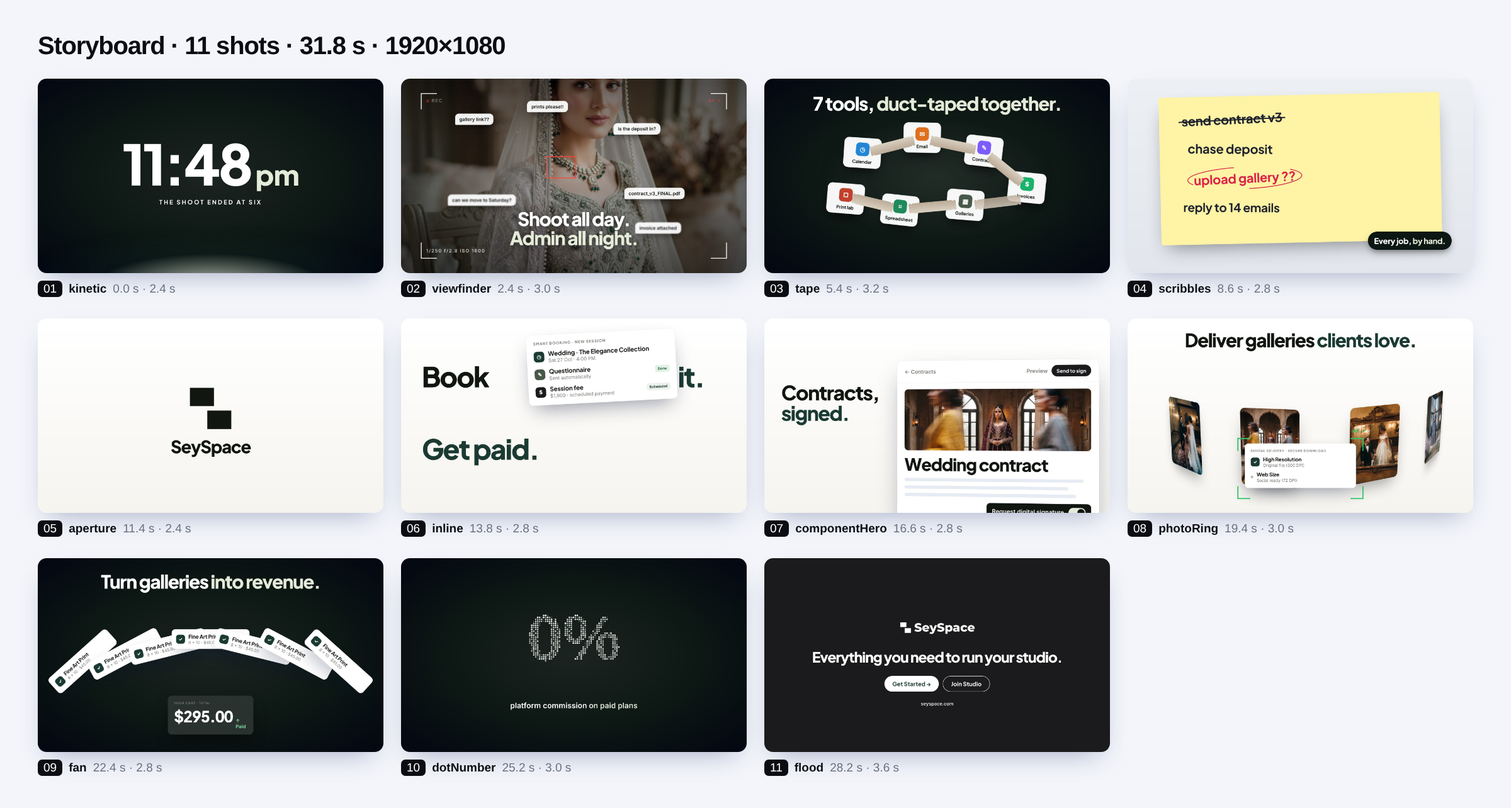
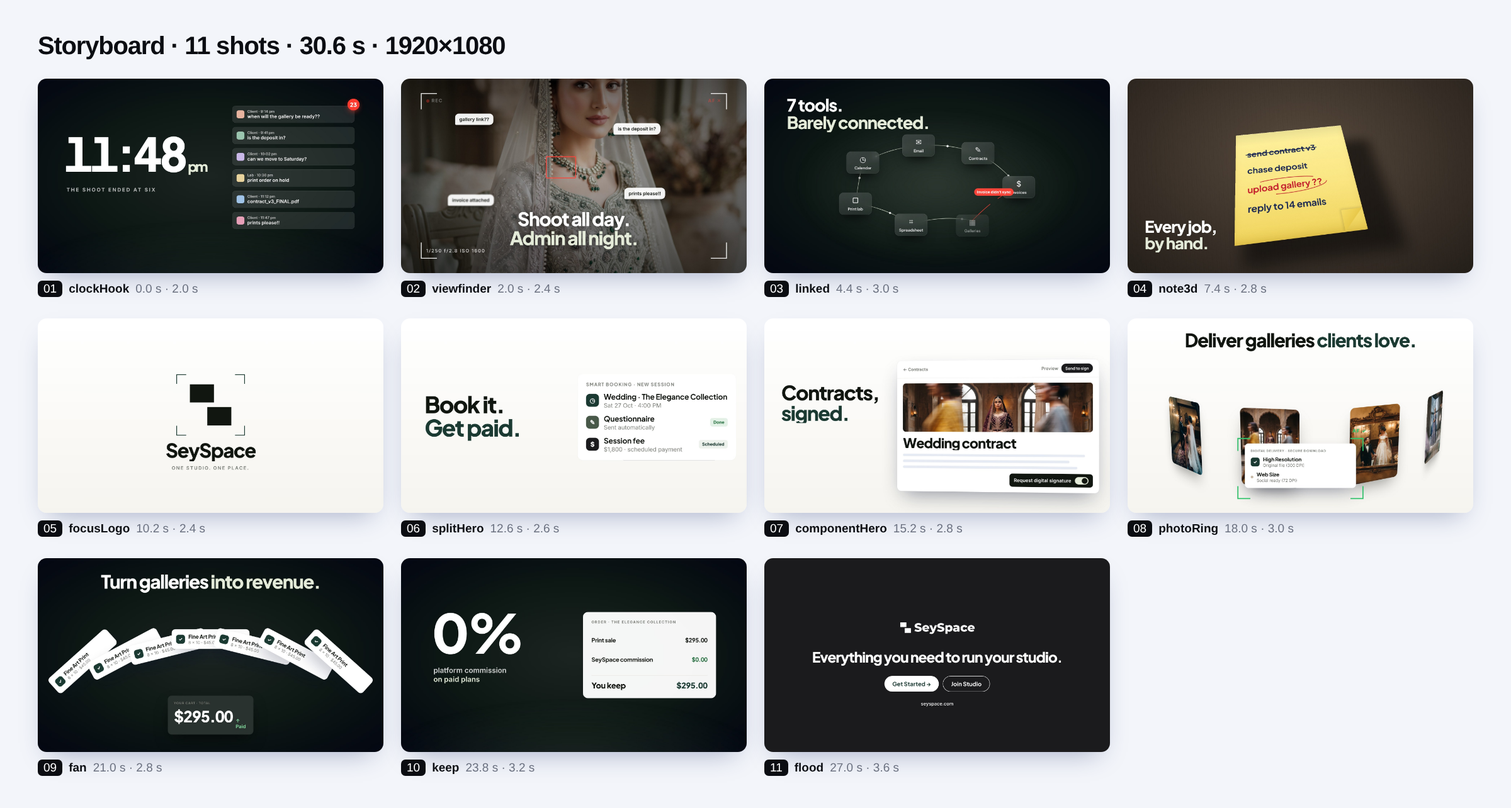
SeySpace v2: apply review comments, faster hook, clean transitions
New moves clockHook, linked, note3d, focusLogo, splitHero, keep; maskLines slide-up type;
dissolve / mask / iris / slide transitions replace the motion-blur whips.

Claude-Session: https://claude.ai/code/session_01Bj9t4eAUM8tCdGzL6hCUT3

diff --git a/films/seyspace_isp/shots_creative.js b/films/seyspace_isp/shots_creative.js
@@ -202,13 +202,15 @@ shot('componentHero', { hero: 2.8, len: 3.6, bg: 'light', tin: 'zoom', tout: 'wh
     s.comp = renderComponent(s.wrap, sc.component, { x: lv(740, 60) / z, y: lv(240, 560) / z, w: lv(1080, 960) / z });
     s.comp.el.style.zoom = z; s.comp.el.style.transformOrigin = '50% 100%';
   },
-  update(t, s, c) {
+  update(t, s, c, sc) {
     S(c, { s: L(1, 1.04, t / 3.6) });
     typeP(s.h, P(t, .1, .7), t, false);
     const r = eo(P(t, .2, 1.0)), ry = tt => L(500, 0, eo(P(tt, .2, 1.0)));
     s.comp.el.style.transform = `translateY(${ry(t).toFixed(1)}px) rotateX(${L(28, 0, r).toFixed(2)}deg) rotateY(${L(lv(-14, 0), lv(-4, 0), r).toFixed(2)}deg)`;
     s.comp.el.style.opacity = C(P(t, .2, .35) * 3).toFixed(3);
     revealParts(s.comp, t, .6, .08); animateComponent(s.comp, t, .6);
+    if (sc.titleSlide && s.comp.el._title) { typeP(s.comp.el._title, 1, 99, false); const tt = s.comp.el.querySelector('.kedtitle'); tt.style.overflow = 'hidden'; const k = eo(P(t, .8, 1.35)); s.comp.el._title.el.style.transform = `translateY(${((1 - k) * 110).toFixed(1)}%)`; s.comp.el._title.el.style.display = 'block'; }
+    if (sc.slideHead) { s.h.el.style.overflow = 'hidden'; typeP(s.h, 1, 99, false); const k = eo(P(t, .05, .6)); s.h.el.style.clipPath = `inset(0 0 ${((1 - k) * 100).toFixed(1)}% 0)`; S(s.h.el, { y: (1 - k) * 60 }); }
   } });
 
 /* ===== podium: ranked entries (a leaderboard) become 3D podium blocks with medals and count-ups ===== */
@@ -470,4 +472,163 @@ shot('photoRing', { hero: 2.4, len: 3.2, bg: 'light', tin: 'zoom', tout: 'whip',
     if (s.comp) { const q = P(t, .9, 1.3); S(s.comp.el, { y: (1 - eo(q)) * 120, o: C(q * 3), s: L(.92, 1, eo(q)) }); revealParts(s.comp, t, 1.0); animateComponent(s.comp, t, 1.0); }
     const lk = eo(P(t, 1.5, 1.8)); s.af.forEach(e => { const dx = e._k[1] === 'l' ? -1 : 1, dy = e._k[0] === 't' ? -1 : 1; S(e, { x: dx * (1 - lk) * 90, y: dy * (1 - lk) * 70, o: C(P(t, 1.45, 1.6) * 3) }); });
     S(s.afl, { o: P(t, 1.75, 1.9), s: L(.6, 1, bo(P(t, 1.75, 2.0))) });
+  } });
+
+/* ================= SeySpace v2 moves (review fixes) ================= */
+/* lines that slide up out of a mask, one after another (premium type reveal) */
+function maskLines(parent, cls, style, lines, accent = [1], accCol = 'var(--acc)') {
+  const e = D(parent, cls, Object.assign({ whiteSpace: 'nowrap' }, style));
+  const spans = lines.map((l, i) => { const w = D(e, '', { overflow: 'hidden', paddingBottom: '.08em', marginBottom: '-.08em' }); const s = D(w, '', { display: 'block', color: accent.includes(i) ? accCol : '' }, kesc(l)); return s; });
+  return { el: e, spans };
+}
+function maskP(m, t, t0, gap = .12, dur = .55) { m.spans.forEach((s, i) => { const k = eo(P(t, t0 + i * gap, t0 + i * gap + dur)); s.style.transform = `translateY(${((1 - k) * 105).toFixed(1)}%)`; }); }
+
+/* ===== clockHook: the evening races past; notifications pile up ===== */
+shot('clockHook', { hero: 1.7, len: 2.4, bg: 'dark',
+  sfx: [],
+  build(c, s, sc) {
+    s.glow = D(c, 'abs', { left: -200, width: W + 400, bottom: -520, height: 820, borderRadius: '50%', background: 'radial-gradient(closest-side,rgba(var(--acc2RGB),.75),transparent)', filter: 'blur(20px)' });
+    s.clock = D(c, 'abs head', { left: 150, top: 280, fontSize: '260px', color: '#fff', whiteSpace: 'nowrap' }, '<span class="num" style="font-variant-numeric:tabular-nums">6:00</span><span style="font-size:.3em;color:var(--hi);margin-left:.15em">pm</span>');
+    s.time = s.clock.firstChild; s.pm = s.clock.lastChild;
+    s.lab = D(c, 'abs', { left: 160, top: 600, font: '700 28px var(--font-body)', color: 'rgba(255,255,255,.7)', letterSpacing: '.22em' }, kesc(sc.label || 'THE SHOOT ENDED AT SIX'));
+    const N = sc.notes || [];
+    s.notes = N.map((n, i) => D(c, 'abs', { left: 1080, top: 150 + i * 118, width: 680, padding: '20px 24px', borderRadius: '20px', background: 'rgba(255,255,255,.1)', backdropFilter: 'blur(14px)', boxShadow: 'inset 0 0 0 1px rgba(255,255,255,.14)', color: '#fff', display: 'flex', gap: '16px', alignItems: 'center' },
+      `<span style="width:44px;height:44px;border-radius:12px;background:${['#E8B4A0', '#9CC5B0', '#C9B8E8', '#E8D49C', '#A0C4E8', '#E8A0B8'][i % 6]};flex:none"></span><div style="min-width:0"><div style="font:700 20px var(--font-body);opacity:.65">${kesc(n[0])}</div><div style="font:600 26px var(--font-body);white-space:nowrap;overflow:hidden;text-overflow:ellipsis">${kesc(n[1])}</div></div>`));
+    s.badge = D(c, 'abs', { left: 1720, top: 112, minWidth: '64px', height: '64px', padding: '0 14px', borderRadius: '32px', background: '#ff3b30', color: '#fff', font: '800 32px var(--font)', display: 'flex', alignItems: 'center', justifyContent: 'center', boxShadow: '0 10px 30px -6px rgba(255,59,48,.7)' }, '0');
+  },
+  update(t, s, c) {
+    S(c, { s: L(1.04, 1, eo(P(t, 0, 2.4))) });
+    const m = Math.round(L(18 * 60, 23 * 60 + 48, eo(P(t, 0, 1.0)))), h = Math.floor(m / 60) - 12, mm = m % 60;
+    s.time.textContent = `${h}:${String(mm).padStart(2, '0')}`;
+    S(s.clock, { o: C(t * 8) });
+    const lk = eo(P(t, .95, 1.35)); S(s.lab, { o: lk, y: (1 - lk) * 14 });
+    S(s.glow, { o: .55 + .25 * Math.sin(t * 3) });
+    let n = 0; s.notes.forEach((e, i) => { const a = .15 + i * .16, k = P(t, a, a + .3); if (k > 0) n++; S(e, { x: (1 - eo(k)) * 120, o: C(k * 3), s: L(.96, 1, eo(k)) }); });
+    s.badge.textContent = String(Math.min(23, Math.round(L(0, 23, eo(P(t, .15, 1.4))))));
+    const bq = P(t, .15, .35); S(s.badge, { s: L(.4, 1, bo(bq)) * (1 + .08 * Math.max(0, Math.sin(t * 14)) * (1 - P(t, 1.2, 1.4))), o: C(bq * 3) });
+  } });
+
+/* ===== linked: the cause as an object. Seven tools as glass tiles, joined by thin lit lines; one link fails ===== */
+shot('linked', { hero: 2.5, len: 3.2, bg: 'dark',
+  sfx: [],
+  build(c, s, sc) {
+    const tools = sc.tools || [], pos = [[560, 470], [860, 380], [1180, 420], [1400, 600], [1150, 780], [820, 800], [520, 690]];
+    s.glow = D(c, 'ctr', { left: CX, top: 600, width: 1500, height: 800, borderRadius: '50%', background: 'radial-gradient(closest-side,rgba(var(--acc2RGB),.38),transparent)', filter: 'blur(30px)' });
+    const links = sc.links || [];
+    s.svg = D(c, 'abs', { left: 0, top: 0, width: W, height: H }, `<svg width="${W}" height="${H}"><defs><linearGradient id="lkg" x1="0" x2="1"><stop offset="0" stop-color="#E4EBD8" stop-opacity=".15"/><stop offset=".5" stop-color="#E4EBD8" stop-opacity=".9"/><stop offset="1" stop-color="#E4EBD8" stop-opacity=".15"/></linearGradient></defs>${links.map(([a, b]) => `<path d="M${pos[a][0]} ${pos[a][1]} Q ${(pos[a][0] + pos[b][0]) / 2} ${(pos[a][1] + pos[b][1]) / 2 - 40} ${pos[b][0]} ${pos[b][1]}" fill="none" stroke="url(#lkg)" stroke-width="2.5" pathLength="1" stroke-dasharray="0 1"/>`).join('')}${links.map(() => '<circle r="6" fill="#fff" opacity="0"/>').join('')}</svg>`);
+    s.paths = [...s.svg.querySelectorAll('path')]; s.dots = [...s.svg.querySelectorAll('circle')]; s.fail = sc.fail;
+    s.tiles = tools.map((tl, i) => { const [x, y] = pos[i];
+      const e = D(c, 'ctr', { left: x, top: y, width: 176, padding: '22px 0 18px', borderRadius: '24px', background: 'linear-gradient(160deg,rgba(255,255,255,.16),rgba(255,255,255,.05))', backdropFilter: 'blur(16px)', boxShadow: 'inset 0 0 0 1px rgba(255,255,255,.18),0 30px 60px -24px rgba(0,0,0,.8)', textAlign: 'center', color: '#fff' },
+        `<div style="font:500 40px var(--font-body);line-height:1;margin-bottom:12px;opacity:.95">${kesc(tl[0])}</div><div style="font:600 21px var(--font);letter-spacing:-.01em;opacity:.85">${kesc(tl[1])}</div>`);
+      return { e, d: .05 + i * .06 }; });
+    s.h = maskLines(c, 'abs head', { left: 150, top: 110, fontSize: '92px', color: '#fff' }, sc.headline || [], [1], 'var(--hi)');
+    s.err = D(c, 'ctr', { left: 0, top: 0, padding: '8px 14px', borderRadius: '999px', background: '#ff453a', color: '#fff', font: '700 20px var(--font-body)', whiteSpace: 'nowrap' }, kesc(sc.error || 'Sync failed'));
+  },
+  measure(s) { const p = s.paths[s.fail]; if (!p) return; const pt = p.getPointAtLength(p.getTotalLength() / 2); s.ex = pt.x - 60; s.ey = pt.y - 95; },
+  update(t, s, c) {
+    S(c, { s: L(1, 1.04, t / 3.2) });
+    maskP(s.h, t, .05);
+    s.tiles.forEach((tl, i) => { const k = eo(P(t, tl.d, tl.d + .5)); const off = i === s.fail + 1 ? eio(P(t, 2.0, 2.8)) : 0; S(tl.e, { o: C(k * 2) * (1 - off * .6), s: L(.9, 1, k), y: Math.sin(t * 1.4 + i) * 4 + off * 30 }); });
+    s.paths.forEach((p, i) => { const k = eio(P(t, .45 + i * .1, .85 + i * .1)); const broke = i === s.fail && t > 1.9;
+      p.setAttribute('stroke-dasharray', broke ? '.42 .16 .42 1' : `${k.toFixed(3)} 1`); p.style.stroke = broke ? '#ff453a' : ''; p.style.opacity = broke ? (Math.floor(t * 12) % 2 ? .35 : 1) : 1; });
+    s.dots.forEach((d, i) => { const p = s.paths[i], ph = ((t * .9 + i * .23) % 1); if (t < 1.0 || (i === s.fail && t > 1.9)) { d.setAttribute('opacity', 0); return; }
+      const pt = p.getPointAtLength(p.getTotalLength() * ph); d.setAttribute('cx', pt.x); d.setAttribute('cy', pt.y); d.setAttribute('opacity', (.9 * Math.sin(ph * Math.PI)).toFixed(2)); });
+    if (s.ex != null) { const q = P(t, 2.0, 2.25); S(s.err, { x: s.ex, y: s.ey, s: L(.6, 1, bo(q)), o: C(q * 3) }); }
+  } });
+
+/* ===== note3d: a real sticky note on a desk, in perspective, writing itself ===== */
+shot('note3d', { hero: 2.4, len: 3.0, bg: '#2a2622',
+  sfx: [],
+  build(c, s, sc) {
+    s.desk = D(c, 'abs', { left: 0, top: 0, width: W, height: H, background: 'radial-gradient(ellipse at 50% 40%,#5a4c3e 0%,#3a3129 55%,#211c17 100%)' });
+    D(c, 'abs', { left: 0, top: 0, width: W, height: H, opacity: .22, background: 'repeating-linear-gradient(93deg,rgba(255,255,255,.05) 0 2px,transparent 2px 9px),repeating-linear-gradient(88deg,rgba(0,0,0,.25) 0 1px,transparent 1px 23px)' });
+    s.scene3 = D(c, 'abs', { left: 0, top: 0, width: W, height: H, perspective: '1600px', perspectiveOrigin: '50% 20%' });
+    s.shadow = D(s.scene3, 'abs', { left: 640, top: 250, width: 720, height: 640, background: 'rgba(0,0,0,.55)', filter: 'blur(36px)', transform: 'rotateX(46deg) rotateZ(-7deg) translateY(70px) translateX(30px)' });
+    s.note = D(s.scene3, 'abs', { left: 620, top: 160, width: 700, height: 700, transformOrigin: '50% 100%', borderRadius: '4px',
+      background: 'linear-gradient(180deg,#fff3a0 0%,#fbe783 58%,#f2d65e 100%)', boxShadow: 'inset 0 -40px 60px -30px rgba(160,120,0,.35),inset 0 1px 0 rgba(255,255,255,.6)' });
+    D(s.note, 'abs', { left: 0, top: 0, width: '100%', height: 90, background: 'linear-gradient(180deg,rgba(0,0,0,.08),transparent)' });   // adhesive strip
+    D(s.note, 'abs', { left: 0, top: 0, width: '100%', height: '100%', opacity: .35, mixBlendMode: 'multiply', background: 'repeating-radial-gradient(circle at 30% 20%,rgba(120,90,0,.08) 0 1px,transparent 1px 3px)' });   // paper grain
+    D(s.note, 'abs', { right: 0, bottom: 0, width: 120, height: 120, background: 'linear-gradient(135deg,#f6dd6a 0%,#e9c94a 48%,rgba(0,0,0,0) 50%)', boxShadow: '-6px -6px 14px rgba(0,0,0,.12)', borderTopLeftRadius: '6px' });   // curled corner
+    s.items = (sc.items || []).map((it, i) => { const e = D(s.note, 'abs', { left: 70, top: 120 + i * 120, font: `600 ${it.size || 54}px var(--font)`, color: it.red ? '#c8202f' : '#1c2a55', letterSpacing: '-.01em', transform: `rotate(${i % 2 ? .8 : -.8}deg)`, whiteSpace: 'nowrap' });
+      const T = typed(e, '', {}, [{ t: it.t }], false); let line = null, ring = null;
+      if (it.strike) line = D(e, 'abs', { left: '-2%', top: '50%', width: '104%', height: '5px', borderRadius: '3px', background: '#1c2a55', transformOrigin: '0 50%' });
+      if (it.circle) ring = D(e, 'abs', { left: '-6%', top: '-22%', width: '112%', height: '144%' }, `<svg width="100%" height="100%" viewBox="0 0 100 100" preserveAspectRatio="none" style="overflow:visible"><ellipse cx="50" cy="50" rx="50" ry="50" fill="none" stroke="#c8202f" stroke-width="3.5" vector-effect="non-scaling-stroke" pathLength="1" stroke-dasharray="0 1"/></svg>`).querySelector('ellipse');
+      return { T, line, ring, d: .3 + i * .38 }; });
+    const cap = sc.caption || ['', ''];
+    s.cap = maskLines(c, 'abs head', { left: 150, top: 760, fontSize: '84px', color: '#fff' }, cap, [1], 'var(--hi)');
+  },
+  update(t, s, c) {
+    const k = eo(P(t, 0, .8));
+    s.note.style.transform = `rotateX(${L(58, 40, k).toFixed(2)}deg) rotateZ(${L(-10, -7, k).toFixed(2)}deg) translateY(${L(80, 0, k).toFixed(1)}px)`;
+    s.note.style.opacity = C(t * 5).toFixed(3); s.shadow.style.opacity = C(t * 5).toFixed(3);
+    S(c, { s: L(1.0, 1.07, eio(P(t, 0, 3))) });
+    s.items.forEach(it => { typeP(it.T, P(t, it.d, it.d + .35), t, false); if (it.line) it.line.style.transform = `scaleX(${eio(P(t, it.d + .38, it.d + .58)).toFixed(3)})`; if (it.ring) it.ring.setAttribute('stroke-dasharray', `${eio(P(t, it.d + .38, it.d + .7)).toFixed(3)} 1`); });
+    maskP(s.cap, t, 1.8);
+  } });
+
+/* ===== focusLogo: a lens racks focus; soft bokeh gathers into the SeySpace mark, which snaps sharp ===== */
+shot('focusLogo', { hero: 2.0, len: 2.6, bg: 'light', marker: 'turn',
+  sfx: [],
+  build(c, s, sc) {
+    s.cv = document.createElement('canvas'); s.cv.width = W; s.cv.height = H; s.cv.className = 'abs'; s.cv.style.left = 0; s.cv.style.top = 0; c.appendChild(s.cv);
+    s.mark = D(c, 'ctr', { left: CX, top: CY - 60, width: 230, color: 'var(--ink)' }, BR.markSvg || markHTML(220));
+    s.af = [[-1, -1], [1, -1], [-1, 1], [1, 1]].map(([dx, dy]) => D(c, 'abs', { left: CX + dx * 190 - (dx > 0 ? 54 : 0), top: CY - 60 + dy * 170 - (dy > 0 ? 54 : 0), width: 54, height: 54,
+      borderTop: dy < 0 ? '4px solid var(--acc)' : 'none', borderBottom: dy > 0 ? '4px solid var(--acc)' : 'none', borderLeft: dx < 0 ? '4px solid var(--acc)' : 'none', borderRight: dx > 0 ? '4px solid var(--acc)' : 'none' }));
+    s.af.forEach((e, i) => { e._d = [[-1, -1], [1, -1], [-1, 1], [1, 1]][i]; });
+    s.word = maskLines(c, 'ctr head', { left: CX, top: CY + 190, fontSize: '108px', textAlign: 'center' }, [sc.word || B.product], []);
+    s.tag = D(c, 'ctr', { left: CX, top: CY + 290, font: '600 26px var(--font-body)', color: 'var(--mut)', letterSpacing: '.18em', whiteSpace: 'nowrap' }, kesc(sc.tag || ''));
+  },
+  update(t, s, c) {
+    S(c, { s: L(1.06, 1, eo(P(t, 0, 2.6))) });
+    const x = s.cv.getContext('2d'); x.clearRect(0, 0, W, H);
+    const g = eio(P(t, 0, 1.0));
+    for (let i = 0; i < 46; i++) { const sx = hash(i) * W, sy = hash(i + 9) * H, r0 = 40 + hash(i + 3) * 110;
+      const X = L(sx, CX + (hash(i + 5) - .5) * 160, g), Y = L(sy, CY - 60 + (hash(i + 7) - .5) * 140, g), r = L(r0, 10, g);
+      x.globalAlpha = (.18 + hash(i + 2) * .22) * (1 - P(t, .9, 1.2)); x.fillStyle = ['#1B3B32', '#485949', '#C8B9A7', '#E4EBD8'][i % 4];
+      x.beginPath(); x.arc(X, Y, r, 0, 7); x.fill(); }
+    x.globalAlpha = 1;
+    const f = P(t, .7, 1.25); S(s.mark, { o: C(f * 2.5), b: (1 - eo(f)) * 26, s: L(1.18, 1, eo(f)) });
+    const a = eo(P(t, 1.15, 1.45)); s.af.forEach(e => S(e, { x: e._d[0] * (1 - a) * 80, y: e._d[1] * (1 - a) * 70, o: C(P(t, 1.1, 1.2) * 4) * (1 - P(t, 2.0, 2.3)) }));
+    maskP(s.word, t, 1.35); blurIn(s.tag, t, 1.7, 2.0, { y: 10, blur: 6 });
+  } });
+
+/* ===== splitHero: headline left, product card right, both on one centre line (clean grid) ===== */
+shot('splitHero', { hero: 2.4, len: 3.0, bg: 'light',
+  sfx: [],
+  build(c, s, sc) {
+    s.h = maskLines(c, 'abs head', { left: 150, top: 0, fontSize: (sc.size || 124) + 'px' }, sc.headline || []);
+    const z = sc.zoom || 1.45, w = 860;
+    s.comp = renderComponent(c, sc.component, { x: 980 / z, y: 0, w: w / z }); s.comp.el.style.zoom = z;
+  },
+  measure(s) { const hh = s.h.el.offsetHeight, ch = s.comp.el.offsetHeight * (parseFloat(s.comp.el.style.zoom) || 1); s.h.el.style.top = (CY - hh / 2) + 'px'; s.comp.el.style.top = ((CY - ch / 2) / (parseFloat(s.comp.el.style.zoom) || 1)) + 'px'; },
+  update(t, s, c) {
+    S(c, { s: L(1, 1.03, t / 3) });
+    maskP(s.h, t, .05, .14);
+    const k = eo(P(t, .25, .8)); s.comp.el.style.clipPath = `inset(${((1 - k) * 100).toFixed(1)}% 0 0 0 round var(--radius))`; S(s.comp.el, { y: (1 - k) * 40 / (parseFloat(s.comp.el.style.zoom) || 1), o: 1 });
+    revealParts(s.comp, t, .5, .1); animateComponent(s.comp, t, .5);
+  } });
+
+/* ===== keep: the proof as a receipt. 0% on the left, the sale on the right, aligned on one box ===== */
+shot('keep', { hero: 2.6, len: 3.2, bg: 'dark',
+  sfx: [],
+  build(c, s, sc) {
+    const top = 300, hgt = 480;
+    s.glow = D(c, 'abs', { left: -200, width: W + 400, bottom: -560, height: 860, borderRadius: '50%', background: 'radial-gradient(closest-side,rgba(var(--acc2RGB),.6),transparent)', filter: 'blur(20px)' });
+    s.big = maskLines(c, 'abs head', { left: 170, top: top - 40, fontSize: '300px', color: '#fff', lineHeight: 1 }, [sc.value || '0%'], []);
+    s.cap = maskLines(c, 'abs', { left: 180, top: top + 300, font: '600 40px/1.25 var(--font-body)', color: 'rgba(255,255,255,.8)' }, sc.caption || [], [1]);
+    s.cap.spans.forEach((e, i) => { if (i) e.style.color = 'var(--hi)'; });
+    const rows = sc.rows || [];
+    s.card = D(c, 'abs', { left: 1010, top, width: 740, height: hgt, borderRadius: '28px', background: 'rgba(255,255,255,.96)', color: 'var(--ink)', padding: '44px 48px', boxShadow: '0 50px 100px -40px rgba(0,0,0,.8)', display: 'flex', flexDirection: 'column', justifyContent: 'space-between' });
+    D(s.card, '', { font: '700 20px var(--font-body)', letterSpacing: '.16em', color: 'var(--mut)' }, kesc(sc.label || 'ORDER · THE ELEGANCE COLLECTION'));
+    s.rows = rows.map((r, i) => { const last = i === rows.length - 1;
+      const e = D(s.card, '', { display: 'flex', justifyContent: 'space-between', alignItems: 'baseline', paddingTop: last ? '26px' : '0', borderTop: last ? '2px solid var(--line)' : 'none', font: `${last ? 800 : 600} ${last ? 44 : 32}px var(--font)`, letterSpacing: '-.02em' },
+        `<span>${kesc(r[0])}</span><span class="num" style="color:${last ? 'var(--acc)' : r[2] || 'inherit'}">${kesc(r[1])}</span>`);
+      return { e, n: e.querySelector('.num'), st: parseStat(r[1]), d: .7 + i * .22 }; });
+  },
+  update(t, s, c) {
+    S(c, { s: L(1.03, 1, eo(P(t, 0, 3.2))) });
+    S(s.glow, { o: .55 + .2 * Math.sin(t * 2.4) });
+    maskP(s.big, t, .1, 0, .7); maskP(s.cap, t, .5);
+    const k = eo(P(t, .35, .9)); s.card.style.clipPath = `inset(${((1 - k) * 100).toFixed(1)}% 0 0 0 round 28px)`;
+    s.rows.forEach(r => { const q = P(t, r.d, r.d + .35); S(r.e, { o: C(q * 3), y: (1 - eo(q)) * 16 }); r.n.textContent = fmtStat(r.st, eo(P(t, r.d, r.d + .7))); });
   } });

diff --git a/films/seyspace_isp/timeline.js b/films/seyspace_isp/timeline.js
@@ -1,31 +1,31 @@
-/* SeySpace: "Your whole studio, in one frame."  Problem → Cause → Solution → Proof → CTA, ~32 s.
- * Dark & glowing for the night of admin (problem, cause); light & airy once the aperture opens (solution, CTA). */
+/* SeySpace v2: review fixes. Faster hook, no motion-blur slides: hard cuts, dissolves, mask wipes and an iris.
+ * Problem → Cause → Solution → Proof → CTA, ~30.6 s, 16:9, silent. */
 const PHOTOS = ['assets/g2.jpg', 'assets/g0.jpg', 'assets/g1.jpg', 'assets/g3.jpg', 'assets/g4.jpg', 'assets/g5.jpg'];
+const X = (tin, extra) => Object.assign({ tin, tout: null }, extra || {});
 window.TIMELINE = {
-  FPS: 30, BPM: 96,
-  STYLE: 'airy',
-  FORMAT: '16:9',
+  FPS: 30, BPM: 96, STYLE: 'airy', FORMAT: '16:9',
   shots: [
-    /* PROBLEM: the shoot ended hours ago; the admin hasn't */
-    ['kinetic', 2.4, 1.1, { big: '11:48', small: 'pm', label: 'THE SHOOT ENDED AT SIX', glow: 'hi' }],
-    ['viewfinder', 3.0, 1.0, { photo: 'assets/g2.jpg', headline: ['Shoot all day.', 'Admin all night.'],
-      items: ['gallery link??', 'is the deposit in?', 'can we move to Saturday?', 'contract_v3_FINAL.pdf', 'prints please!!', 'invoice attached'] }],
-    /* CAUSE: the studio runs on separate tools, taped together, and every job is done by hand */
-    ['tape', 3.2, 1.0, { headline: ['7 tools,', 'duct-taped together.'], peel: 3,
-      tools: [['◷', 'Calendar', '#2386D6'], ['✉', 'Email', '#E0701E'], ['✎', 'Contracts', '#7C5CFF'], ['$', 'Invoices', '#19B36B'], ['▦', 'Galleries', '#485949'], ['⌗', 'Spreadsheet', '#1F8A5B'], ['▢', 'Print lab', '#C2412D']],
-      links: [[0, 1], [1, 2], [2, 3], [3, 4], [4, 5], [5, 6]] }],
-    ['scribbles', 2.8, 1.15, { surface: 'sticky', caption: ['Every job,', 'by hand.'], smear: false,
-      items: [{ t: 'send contract v3', x: .08, y: .1, size: 70, color: 'black', strike: true }, { t: 'chase deposit', x: .1, y: .3, size: 70, color: 'black' },
-              { t: 'upload gallery ??', x: .12, y: .5, size: 70, color: 'red', circle: true }, { t: 'reply to 14 emails', x: .08, y: .7, size: 66, color: 'black' }] }],
-    /* SOLUTION: the aperture closes on the mess and opens on SeySpace; every step locks into one frame */
-    ['aperture', 2.4, 1.05, { photo: 'assets/g2.jpg' }],
-    ['inline', 2.8, 1.2, { before: 'Book', component: 'booking', after: 'it.', line2: 'Get paid.' }],
-    ['componentHero', 2.8, 1.25, { headline: ['Contracts,', 'signed.'], component: 'contract' }],
-    ['photoRing', 3.0, 1.05, { headline: ['Deliver galleries', 'clients love.'], photos: PHOTOS, component: 'download' }],
-    ['fan', 2.8, 1.2, { headline: ['Turn galleries', 'into revenue.'], card: 'order', count: 7, stat: 'cart' }],
-    /* PROOF: their own claim */
-    ['dotNumber', 3.0, 1.15, { value: '0%', caption: ['platform commission', 'on paid plans'] }],
+    /* PROBLEM: the evening races by while the messages pile up */
+    ['clockHook', 2.0, 1.2, X(null, { label: 'THE SHOOT ENDED AT SIX',
+      notes: [['Client · 9:14 pm', 'when will the gallery be ready??'], ['Client · 9:41 pm', 'is the deposit in?'], ['Client · 10:02 pm', 'can we move to Saturday?'], ['Lab · 10:30 pm', 'print order on hold'], ['Client · 11:12 pm', 'contract_v3_FINAL.pdf'], ['Client · 11:47 pm', 'prints please!!']] })],
+    ['viewfinder', 2.4, 1.25, X('dissolve', { photo: 'assets/g2.jpg', headline: ['Shoot all day.', 'Admin all night.'],
+      items: ['gallery link??', 'is the deposit in?', 'invoice attached', 'prints please!!'] })],
+    /* CAUSE */
+    ['linked', 3.0, 1.05, X('mask', { headline: ['7 tools.', 'Barely connected.'], fail: 3, error: 'Invoice didn’t sync',
+      tools: [['◷', 'Calendar'], ['✉', 'Email'], ['✎', 'Contracts'], ['$', 'Invoices'], ['▦', 'Galleries'], ['⌗', 'Spreadsheet'], ['▢', 'Print lab']],
+      links: [[0, 1], [1, 2], [2, 3], [3, 4], [4, 5], [5, 6], [6, 0]] })],
+    ['note3d', 2.8, 1.05, X(null, { caption: ['Every job,', 'by hand.'],
+      items: [{ t: 'send contract v3', strike: true }, { t: 'chase deposit' }, { t: 'upload gallery ??', red: true, circle: true }, { t: 'reply to 14 emails' }] })],
+    /* SOLUTION */
+    ['focusLogo', 2.4, 1.08, X('iris', { tag: 'ONE STUDIO. ONE PLACE.' })],
+    ['splitHero', 2.6, 1.15, X('mask', { headline: ['Book it.', 'Get paid.'], component: 'booking' })],
+    ['componentHero', 2.8, 1.25, X('dissolve', { headline: ['Contracts,', 'signed.'], component: 'contract', titleSlide: true, slideHead: true, zoom: 1.15 })],
+    ['photoRing', 3.0, 1.05, X('mask', { headline: ['Deliver galleries', 'clients love.'], photos: PHOTOS, component: 'download' })],
+    ['fan', 2.8, 1.2, X(null, { headline: ['Turn galleries', 'into revenue.'], card: 'order', count: 7, stat: 'cart' })],
+    /* PROOF: their own claim, on a sample order from their cart */
+    ['keep', 3.2, 1.0, X('dissolve', { value: '0%', caption: ['platform commission', 'on paid plans'],
+      rows: [['Print sale', '$295.00'], ['SeySpace commission', '$0.00', '#1F6B3A'], ['You keep', '$295.00']] })],
     /* CTA */
-    ['flood', 3.6, 1.1, { button: 'Get Started →' }],
+    ['flood', 3.6, 1.1, X('dissolve', { button: 'Get Started →' })],
   ],
 };

diff --git a/films/seyspace_isp/timeline_v1.js b/films/seyspace_isp/timeline_v1.js
@@ -1,0 +1,31 @@
+/* SeySpace: "Your whole studio, in one frame."  Problem → Cause → Solution → Proof → CTA, ~32 s.
+ * Dark & glowing for the night of admin (problem, cause); light & airy once the aperture opens (solution, CTA). */
+const PHOTOS = ['assets/g2.jpg', 'assets/g0.jpg', 'assets/g1.jpg', 'assets/g3.jpg', 'assets/g4.jpg', 'assets/g5.jpg'];
+window.TIMELINE = {
+  FPS: 30, BPM: 96,
+  STYLE: 'airy',
+  FORMAT: '16:9',
+  shots: [
+    /* PROBLEM: the shoot ended hours ago; the admin hasn't */
+    ['kinetic', 2.4, 1.1, { big: '11:48', small: 'pm', label: 'THE SHOOT ENDED AT SIX', glow: 'hi' }],
+    ['viewfinder', 3.0, 1.0, { photo: 'assets/g2.jpg', headline: ['Shoot all day.', 'Admin all night.'],
+      items: ['gallery link??', 'is the deposit in?', 'can we move to Saturday?', 'contract_v3_FINAL.pdf', 'prints please!!', 'invoice attached'] }],
+    /* CAUSE: the studio runs on separate tools, taped together, and every job is done by hand */
+    ['tape', 3.2, 1.0, { headline: ['7 tools,', 'duct-taped together.'], peel: 3,
+      tools: [['◷', 'Calendar', '#2386D6'], ['✉', 'Email', '#E0701E'], ['✎', 'Contracts', '#7C5CFF'], ['$', 'Invoices', '#19B36B'], ['▦', 'Galleries', '#485949'], ['⌗', 'Spreadsheet', '#1F8A5B'], ['▢', 'Print lab', '#C2412D']],
+      links: [[0, 1], [1, 2], [2, 3], [3, 4], [4, 5], [5, 6]] }],
+    ['scribbles', 2.8, 1.15, { surface: 'sticky', caption: ['Every job,', 'by hand.'], smear: false,
+      items: [{ t: 'send contract v3', x: .08, y: .1, size: 70, color: 'black', strike: true }, { t: 'chase deposit', x: .1, y: .3, size: 70, color: 'black' },
+              { t: 'upload gallery ??', x: .12, y: .5, size: 70, color: 'red', circle: true }, { t: 'reply to 14 emails', x: .08, y: .7, size: 66, color: 'black' }] }],
+    /* SOLUTION: the aperture closes on the mess and opens on SeySpace; every step locks into one frame */
+    ['aperture', 2.4, 1.05, { photo: 'assets/g2.jpg' }],
+    ['inline', 2.8, 1.2, { before: 'Book', component: 'booking', after: 'it.', line2: 'Get paid.' }],
+    ['componentHero', 2.8, 1.25, { headline: ['Contracts,', 'signed.'], component: 'contract' }],
+    ['photoRing', 3.0, 1.05, { headline: ['Deliver galleries', 'clients love.'], photos: PHOTOS, component: 'download' }],
+    ['fan', 2.8, 1.2, { headline: ['Turn galleries', 'into revenue.'], card: 'order', count: 7, stat: 'cart' }],
+    /* PROOF: their own claim */
+    ['dotNumber', 3.0, 1.15, { value: '0%', caption: ['platform commission', 'on paid plans'] }],
+    /* CTA */
+    ['flood', 3.6, 1.1, { button: 'Get Started →' }],
+  ],
+};

diff --git a/films/seyspace_isp/engine.js b/films/seyspace_isp/engine.js
@@ -213,6 +213,7 @@ function buildTimeline() {
     sc.cam = D(sc.root, 'cam'); sc.st = {};
     if (STYLE.texture === 'grain') D(sc.root, 'grain');
     sc.build(sc.cam, sc.st, sc);
+    if (['dissolve', 'mask', 'iris', 'slide'].includes(sc.tin) && sc.under == null) sc.under = .6;
     scenes.push(sc); a += dur;
   });
   window.DUR = a; window.TOTAL = Math.round(a * FPS);
@@ -228,6 +229,12 @@ function applyTr(sc, lt) {
     if (I === 'zoom') { o.s = L(.82, 1, p); o.bx = o.by = q * 24; }
     if (I === 'fade') { o.o = C(lt / .2); o.bx = o.by = q * 30; o.s = L(1.06, 1, p); }
   }
+  /* clean transitions (no motion blur): the previous shot stays underneath while this one is revealed */
+  sc.root.style.clipPath = 'none';
+  if (I === 'dissolve' && lt < .35) { const p = eio(lt / .35); o.o = p; o.s = L(1.025, 1, p); }
+  if (I === 'mask' && lt < .5) { const p = eio(lt / .5); sc.root.style.clipPath = `inset(${((1 - p) * 100).toFixed(2)}% 0 0 0)`; o.y = (1 - p) * 60; }
+  if (I === 'iris' && lt < .55) { const p = eio(lt / .55); sc.root.style.clipPath = `circle(${(p * 120).toFixed(2)}% at 50% 50%)`; o.s = L(1.06, 1, p); }
+  if (I === 'slide' && lt < .5) { const p = eio(lt / .5); sc.root.style.clipPath = `inset(0 0 0 ${((1 - p) * 100).toFixed(2)}%)`; o.x = (1 - p) * 90; }
   if (O && lt > d - to) {
     const p = ei(P(lt, d - to, d));
     if (O === 'whip') { o.x += -p * W * .42; o.bx += p * 70; }
